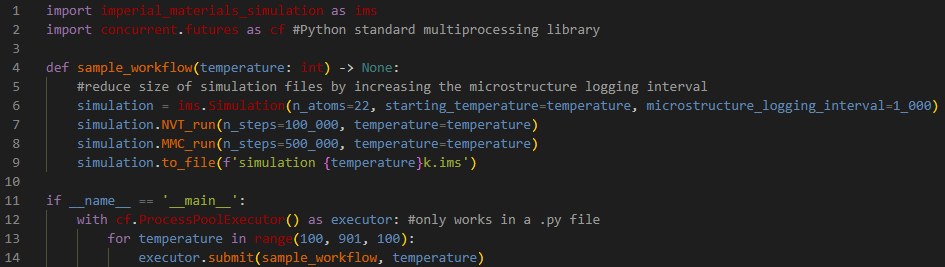
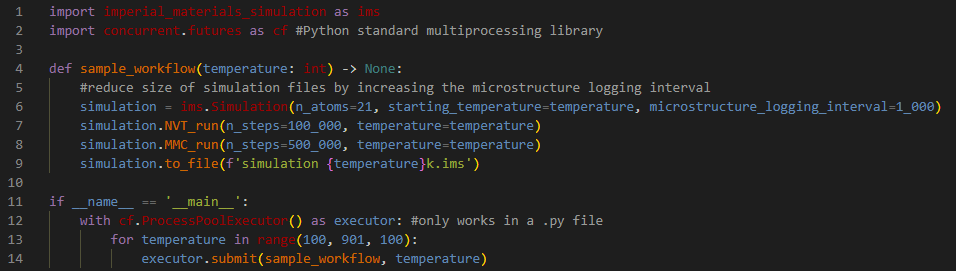
update src, scripts, and docs for a 21 atom starting structure

diff --git a/scripts/Data Collection.py b/scripts/Data Collection.py
@@ -3,7 +3,7 @@ import concurrent.futures as cf #Python standard multiprocessing library
 
 def sample_workflow(temperature: int) -> None:
     #reduce size of simulation files by increasing the microstructure logging interval
-    simulation = ims.Simulation(n_atoms=22, starting_temperature=temperature, microstructure_logging_interval=1_000)
+    simulation = ims.Simulation(n_atoms=21, starting_temperature=temperature, microstructure_logging_interval=1_000)
     simulation.NVT_run(n_steps=100_000, temperature=temperature)
     simulation.MMC_run(n_steps=500_000, temperature=temperature)
     simulation.to_file(f'simulation {temperature}k.ims') 

diff --git a/src/imperial_materials_simulation/__init__.py b/src/imperial_materials_simulation/__init__.py
@@ -23,7 +23,6 @@ starting_microstructure = pd.DataFrame(
      [-0.1902823 ,  3.40079245, -0.74306813],
      [ 1.24620565,  3.26671434, -1.25936233],
      [ 2.09305162,  2.57081936, -2.32976298],
-     [ 2.17803079,  1.66144767, -3.55851113],
-     [ 1.45327508,  0.95559197, -4.70667552]],
+     [ 2.17803079,  1.66144767, -3.55851113]],
         columns=['x', 'y', 'z']
 )

diff --git a/README.md b/README.md
@@ -58,11 +58,6 @@ Community contributions are also welcome. Feel free to create a pull request if 
 
 ## Development Workflow
 
-Download the repo.
-
-    git clone https://github.com/AyhamSaffar/imperial-materials-simulation.git
-
-
 Install [uv](https://docs.astral.sh/uv/):
 
     winget install --id=astral-sh.uv  -e
@@ -70,6 +65,14 @@ Install [uv](https://docs.astral.sh/uv/):
 or
 
     curl -LsSf https://astral.sh/uv/install.sh | sh
+
+Download the repo.
+
+    git clone https://github.com/AyhamSaffar/imperial-materials-simulation.git
+
+Enter created repo.
+
+    cd imperial-materials-simulation
 
 Create environment
 
